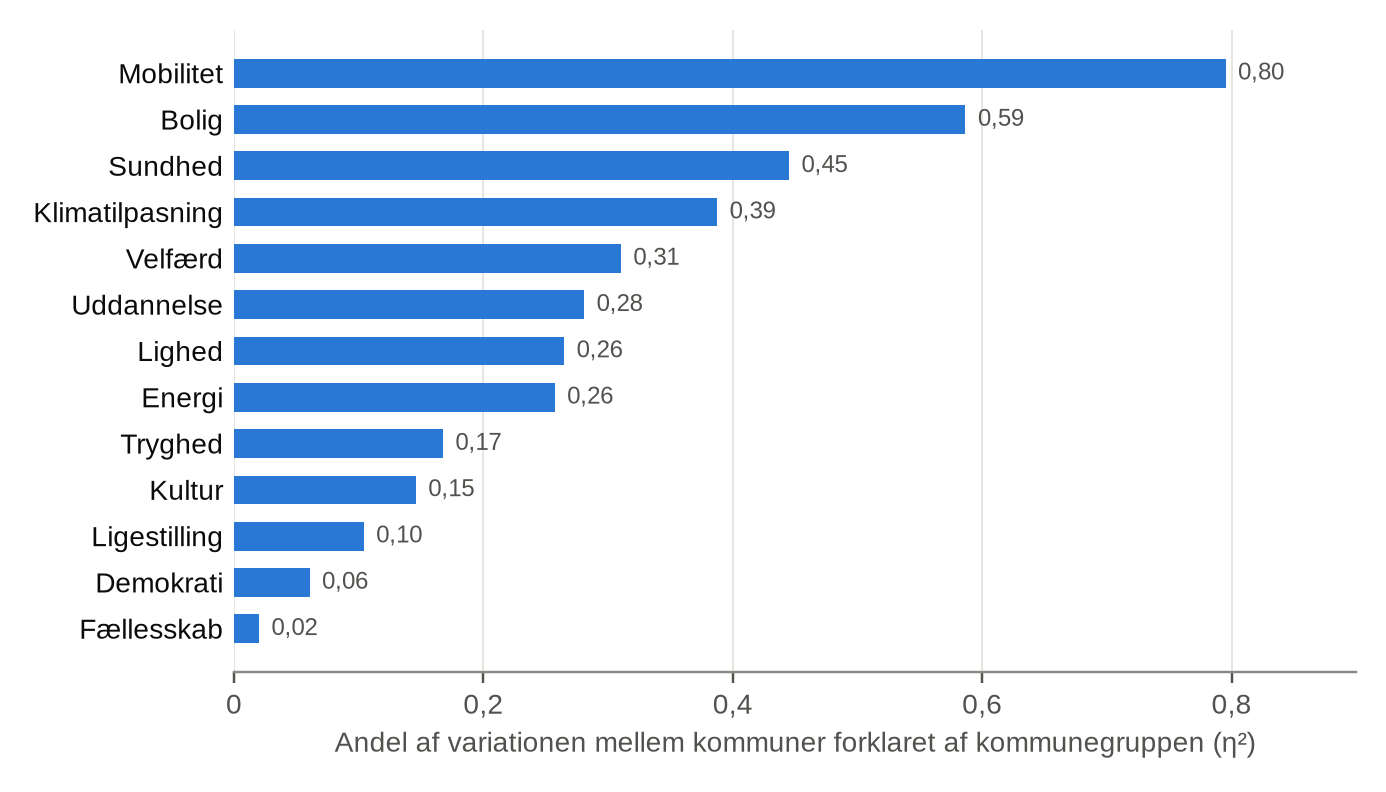
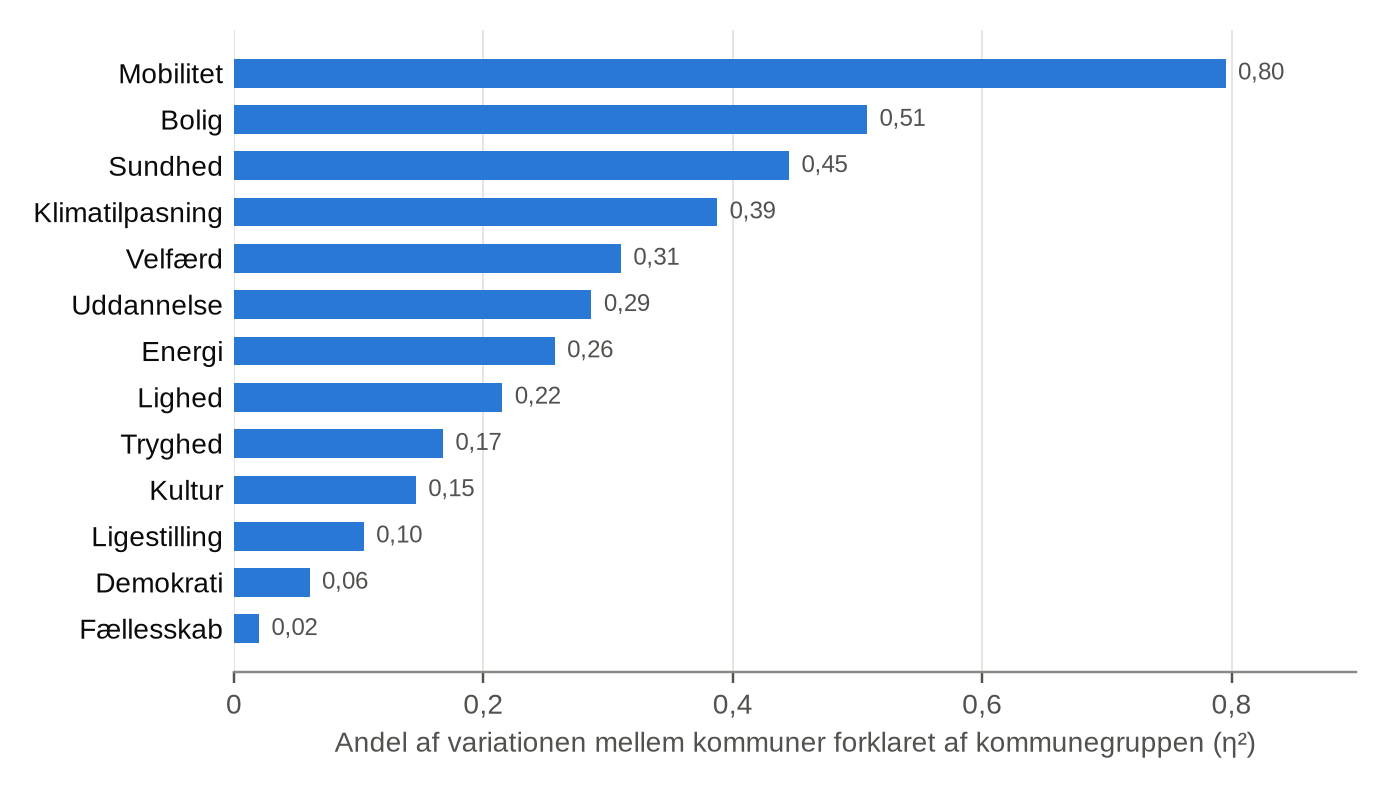
Opdater metodeartiklerne til de nye data og læg dem på metodesiden
Artiklerne er genberegnet efter trangboethed, lavindkomst ud af Lighed og
elevvægtede UVM-landstal (commit bb573ec). Svaghedsafsnittet beskriver nu
det der er rettet, og Bolig/Mobilitet-modsætningen (-0,75). Nitratgrænsen
har fået sin kilde (ekspertgruppen, Miljøministeriet dec. 2025), og de
ubekræftede referencer er tjekket og rettet (Dao 2015, Henriksen 2023,
COM(2020) 380).

Metodesiden linker til begge artikler (webapp/public/artikler/), og
vægtningsteksten nævner Bolig og Energi med én indikator.

Claude-Session: https://claude.ai/code/session_014pJ7FVEeBmnzsAq3Gmzru5

diff --git a/webapp/app/metode/page.tsx b/webapp/app/metode/page.tsx
@@ -255,6 +255,29 @@ export default function MetodePage() {
           Danmarks 98 Doughnuts anvender Kate Raworths Doughnut Economics-ramme til at vurdere alle danske kommuners præstation på to linser: det <strong>sociale fundament</strong> (opfylder vi borgernes basale behov?) og det <strong>økologiske loft</strong> (respekterer vi naturens grænser?). Modellen er politisk neutral - den måler, ikke rangordner.
         </p>
 
+        {/* Metodeartikler til download (docs/artikler/, kopieret til public/artikler/) */}
+        <div className="p-4 bg-white border border-gray-200 rounded-xl mb-4">
+          <h3 className="font-bold text-gray-900 mb-1">Metodeartikler</h3>
+          <p className="text-sm text-gray-600 leading-relaxed mb-2">
+            To artikler forklarer metoden mere udførligt, tester hvor følsomme resultaterne er over for metodens valg, og gennemgår svaghederne.
+            Tallene er et øjebliksbillede af data fra 26. september 2026.
+          </p>
+          <ul className="text-sm space-y-1">
+            <li>
+              <a href="/artikler/metodeartikel-1-social-ring.docx" download className="text-blue-600 hover:underline font-medium">
+                Et socialt fundament for 98 kommuner
+              </a>{" "}
+              <span className="text-gray-400">(Word, 230 kB)</span>
+            </li>
+            <li>
+              <a href="/artikler/metodeartikel-2-oekologisk-ring.docx" download className="text-blue-600 hover:underline font-medium">
+                Et økologisk loft for 98 kommuner
+              </a>{" "}
+              <span className="text-gray-400">(Word, 250 kB)</span>
+            </li>
+          </ul>
+        </div>
+
         {/* Baseline-hierarki */}
         <div className="p-4 bg-emerald-50 border border-emerald-200 rounded-xl mb-2">
           <h3 className="font-bold text-emerald-900 mb-3">Hierarki for baseline-valg</h3>
@@ -335,7 +358,7 @@ export default function MetodePage() {
         <p className="text-sm text-gray-700 leading-relaxed mt-4">
           <strong>Vægtning:</strong> Hver kategori (f.eks. Sundhed, Velfærd, Bolig) beregnes som et simpelt gennemsnit af sine indikatorer.
           Det samlede sociale gennemsnit er et gennemsnit af kategorierne - ikke af de individuelle indikatorer.
-          Det betyder at kategorier med få indikatorer (f.eks. Bolig og Mobilitet med 2) vægter lige så tungt som kategorier med mange (f.eks. Sundhed og Uddannelse med 9).
+          Det betyder at kategorier med få indikatorer (f.eks. Bolig og Energi med 1) vægter lige så tungt som kategorier med mange (f.eks. Sundhed og Uddannelse med 9).
           Dette er et bevidst valg: hver dimension i doughnut-modellen anses for lige vigtig, uanset hvor mange indikatorer der måler den.
         </p>
         <p className="text-sm text-gray-700 leading-relaxed mt-2">

diff --git a/docs/artikler/README.md b/docs/artikler/README.md
@@ -1,14 +1,14 @@
 # Metodeartikler
 
-To artikler, der forklarer metoden bag Danmarks 98 Doughnuts og gennemgår dens svagheder. De er skrevet til nysgerrige læsere og tænkt som bilag, man kan downloade fra platformen.
+To artikler, der forklarer metoden bag Danmarks 98 Doughnuts og gennemgår dens svagheder. De er skrevet til nysgerrige læsere og kan downloades fra metodesiden (`webapp/public/artikler/`, kopier af filerne her).
 
-- `metodeartikel-1-social-ring.docx`: den sociale ring (13 kategorier, 50 indikatorer).
+- `metodeartikel-1-social-ring.docx`: den sociale ring (13 kategorier, 48 indikatorer).
 - `metodeartikel-2-oekologisk-ring.docx`: den økologiske ring (7 dimensioner, 15 indikatorer).
 
-Alle tal er beregnet på datafilerne ved commit 80a914c (25. september 2026). `analyse_artikler.py` genskaber tallene og figurerne i `figurer/`. Scriptet kræver numpy, pandas, scipy og matplotlib og køres fra rodmappen:
+Alle tal er beregnet på datafilerne ved commit bb573ec (26. september 2026), efter at Bolig blev målt som trangboethed, lavindkomst blev taget ud af Lighed, og UVM-indikatorernes landstal blev vægtet med elevtal. `analyse_artikler.py` genskaber tallene og figurerne i `figurer/`. Scriptet kræver numpy, pandas, scipy og matplotlib og køres fra rodmappen:
 
 ```bash
 python3 docs/artikler/analyse_artikler.py
 ```
 
-Efter artiklerne blev skrevet, er lavindkomst fjernet fra Lighed (se `data/CHANGELOG.md`, 25. september 2026). Artiklerne beskriver derfor Lighed med tre indikatorer og den sociale ring med 50. Opdateres data, passer tallene i artiklerne ikke længere. Kør scriptet og ret teksten, eller behold artiklerne som et øjebliksbillede af 25. september 2026.
+Opdateres data, passer tallene i artiklerne ikke længere. Kør scriptet og ret teksten, eller behold artiklerne som et øjebliksbillede af 26. september 2026. Retter du artiklerne, så kopiér dem også til `webapp/public/artikler/`.

diff --git a/CLAUDE.md b/CLAUDE.md
@@ -330,7 +330,7 @@ Scriptet gemmer direkte til `data/doughnut_scores.csv`. Fra `scripts/` havner fi
 - **`docs/aabne-traade-juni-2026.md`** - prioriterede løse ender og uudnyttede indsigter (scoringsfilosofi, education-badge, REshare, energiforbrug m.m.). Læs før næste større runde.
 - **`docs/oekologisk-gennemgang-sep-2026.md`** - gennemgang af de økologiske dimensioner: fundne svagheder, hvad der er ændret med hvilken kilde, og hvad der ikke kunne løses. Læs før næste ændring i det økologiske loft.
 - **`docs/arkitektur-og-beregningsregler.md`** - de normative beregningsregler (R1-R15), retningspilenes regler (T1-T8), kendte fælder og registrerede afvigelser mellem dokumentation og kode. Læs før enhver ændring i scoringen.
-- **`docs/artikler/`** - to metodeartikler (.docx) til offentligheden om den sociale og den økologiske ring, med følsomhedstest og svagheder. Tallene er et øjebliksbillede af data 25. sep. 2026 og genskabes med `analyse_artikler.py`.
+- **`docs/artikler/`** - to metodeartikler (.docx) til offentligheden om den sociale og den økologiske ring, med følsomhedstest og svagheder. Tallene er et øjebliksbillede af data 26. sep. 2026 og genskabes med `analyse_artikler.py`. Kopier ligger i `webapp/public/artikler/` og linkes fra metodesiden.
 
 ## Vedligehold af denne fil
 
